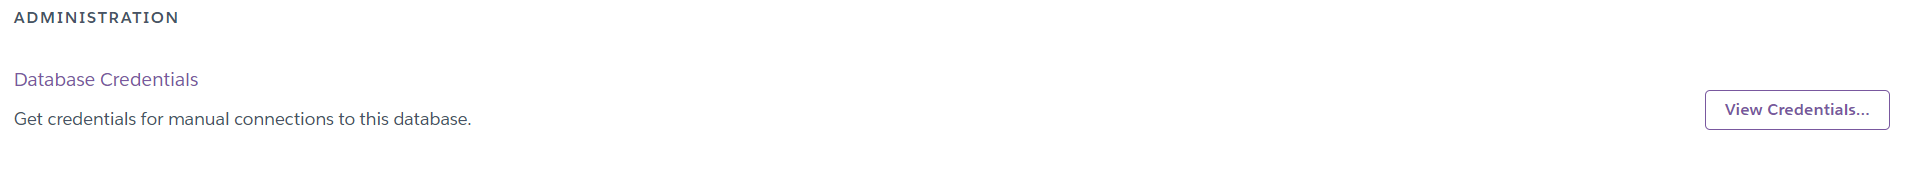
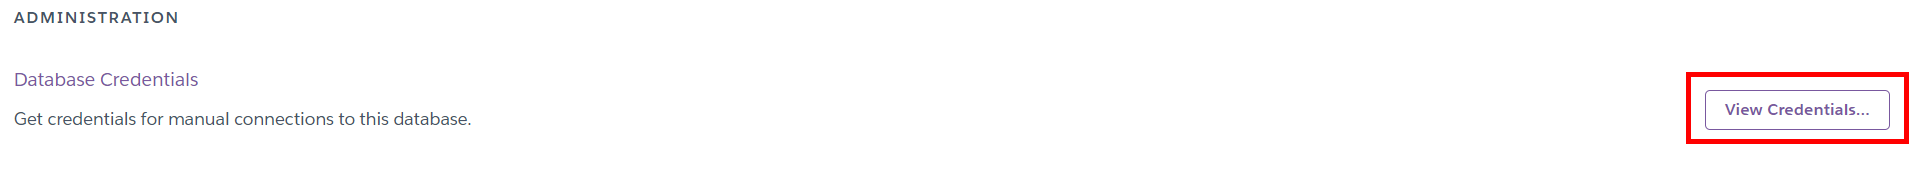
update step 4

Changed region(s): [[0.8627, 0.4118, 1.0, 0.8529]]

diff --git a/Readme.md b/Readme.md
@@ -47,9 +47,11 @@ pip install numpy
 ### Step 4: login to heroku pstgredb using HeidiSQL
 
 * 點選```Heroku Postgres```
-  <img src="https://raw.githubusercontent.com/michael54856/aiot0531/master/Image/step3ChoosePostgres.png">
+  <img src="https://raw.githubusercontent.com/michael54856/aiot0531/master/Image/step4ChoosePostgres.png">
 * 點選```Setting```
-  <img src="https://raw.githubusercontent.com/michael54856/aiot0531/master/Image/step3ChoosePostgres.png">
+  <img src="https://raw.githubusercontent.com/michael54856/aiot0531/master/Image/step4clickSetting.png">
+* 點選```View Credentials```
+  <img src="https://raw.githubusercontent.com/michael54856/aiot0531/master/Image/step4clickCredentials.png">
 
 
 ```sql
